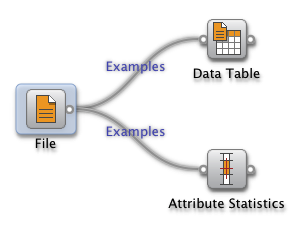
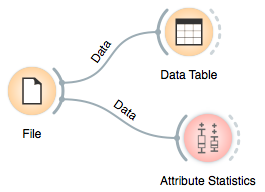
Updated documentation for File widget (use of stamper.py to render images).

Changed region(s): [[0.0302, 0.0312, 0.966, 0.9688]]

diff --git a/Orange/OrangeWidgets/Data/OWFile.py b/Orange/OrangeWidgets/Data/OWFile.py
@@ -305,17 +305,22 @@ class OWFile(OWWidget):
                 self.warnings.setText(str(ex))
                 return
 
-        self.infoa.setText('%d example(s), ' % len(data) +
-                           '%d attribute(s), ' % len(data.domain.attributes) +
-                           '%d meta attribute(s).' % len(data.domain.getmetas()))
+        self.infoa.setText("%d data instance%s, " %
+                           (len(data), 's' if len(data) > 1 else '') +
+                           "%d feature%s, " %
+                           (len(data.domain.attributes),
+                            's' if len(data.domain.attributes) > 1 else '') +
+                           '%d meta attribute%s.' %
+                           (len(data.domain.getmetas()),
+                            's' if len(data.domain.getmetas()) > 1 else ''))
         cl = data.domain.class_var
         if cl is not None:
             if isinstance(cl, Orange.feature.Continuous):
                 self.infob.setText('Regression; Numerical class.')
             elif isinstance(cl, Orange.feature.Discrete):
                 self.infob.setText(
-                    'Classification; Discrete class with %d value(s).' %
-                    len(cl.values)
+                    'Classification; Discrete class with %d value%s.' %
+                    (len(cl.values), 's' if len(cl.values) > 1 else '')
                 )
             else:
                 self.infob.setText("Class is neither discrete nor continuous.")

diff --git a/docs/widgets/rst/data/file.rst b/docs/widgets/rst/data/file.rst
@@ -13,52 +13,72 @@ Inputs:
    - None
 
 Outputs:
-   - Examples (ExampleTable)
-       	Attribute-valued data set read from the input file.
+   - Data
+         Attribute-valued data set read from the input file.
 
 Description
 -----------
 
-.. image:: images/File.png
-   :alt: File widget with loaded ionosphere.tab data set
-   
-This is the widget you will probably use in every schema. It reads the input data file 
+This is the widget you will probably use in every schema. It reads the input data file
 (data table with examples) and sends the data set to the output channel. It maintains
-a history of most recently used data files. For convenience, the history also includes 
+a history of most recently used data files. For convenience, the history also includes
 a directory with the sample data sets that come with Orange.
 
-To browse for a data file press .... Reload button reloads the file.
+File can read data from simple tab-delimited or comma-separated files, as well as
+files Weka's .arrf format.
 
-The widget can read data from simple tab-delimited or comma-separated files, as well as
-files in C4.5 format and Weka's .arrf files.
+.. image:: images/File-stamped.png
+   :alt: File widget with loaded Iris data set
+   :align: right
 
-The info box at the bottom of the widget displays information on the number of examples, 
-attributes and meta attributes, and information on class variable (if defined in a file).
+1. Browse for a data file.
+#. Browse through previously opened data files, or load any of the sample data
+   files.
+#. Reloads currently selected data file.
+#. Information on loaded data set (data set size, number and types of
+   data features).
+#. Opens a sub-window with advanced settings.
+#. Adds a report on data set info (size, features).
 
-The controls in between are for more advanced users.
+.. container:: clearer
 
-Tab-delimited file can have user defined symbols for undefined values. The symbols for 
+    .. image :: images/spacer.png
+
+Advanced Options
+----------------
+
+.. image:: images/File-Advanced-stamped.png
+   :alt: Advanced options of File widget
+   :align: right
+
+1. Symbol for don't care data entry.
+#. Symbol for don't know data entry.
+#. Settings for treatment of feature names in the feature space of Orange.
+
+.. container:: clearer
+
+    .. image :: images/spacer.png
+
+Tab-delimited data file can include user defined symbols for undefined values. The symbols for
 "don't care" and "don't know" values can be specified in the corresponding edit lines. 
 The default values for "don't know" and "don't care" depend upon format. Most users will 
 use tab-delimited files: keep the field empty or put a question mark in there and that's 
 it. Most algorithms do not differ between don't know and don't care values, so consider 
 them both to mean undefined.
 
-The part which most will probably neither understand nor need is related to construction 
-of new attributes. It becomes important when multiple data sets are loaded, usually with 
-multiple File widgets. A typical example is loading separate training and testing data 
-from two files. In this case Orange will usually treat the attributes with the same name 
+Orange will usually treat the attributes with the same name
 but appearing in different files as the same attribute, so a classifier which uses the 
 attribute "petal length" from the first will use the attribute of the same name from 
 the second. In cases when attributes from different files just accidentally bear different 
 names, one can instruct Orange to either always construct new attribute or construct them when 
-they differ in their domains. Use this option with great care (if at all).
+they differ in their domains. Use the options on dealing with new attributes
+with great care (if at all).
 
-Examples
---------
+Example
+-------
 
-Any of your schemas should probably start with the :ref:`File` widget. In the schema below,
-the widget is used to read the data that is then sent to both :ref:`Data Table` widget and 
+Most Orange workflows would probably start with the :ref:`File` widget. In the schema below,
+the widget is used to read the data that is sent to both :ref:`Data Table` widget and
 to widget that displays :ref:`Attribute Statistics`.
 
 .. image:: images/File_schema.png
